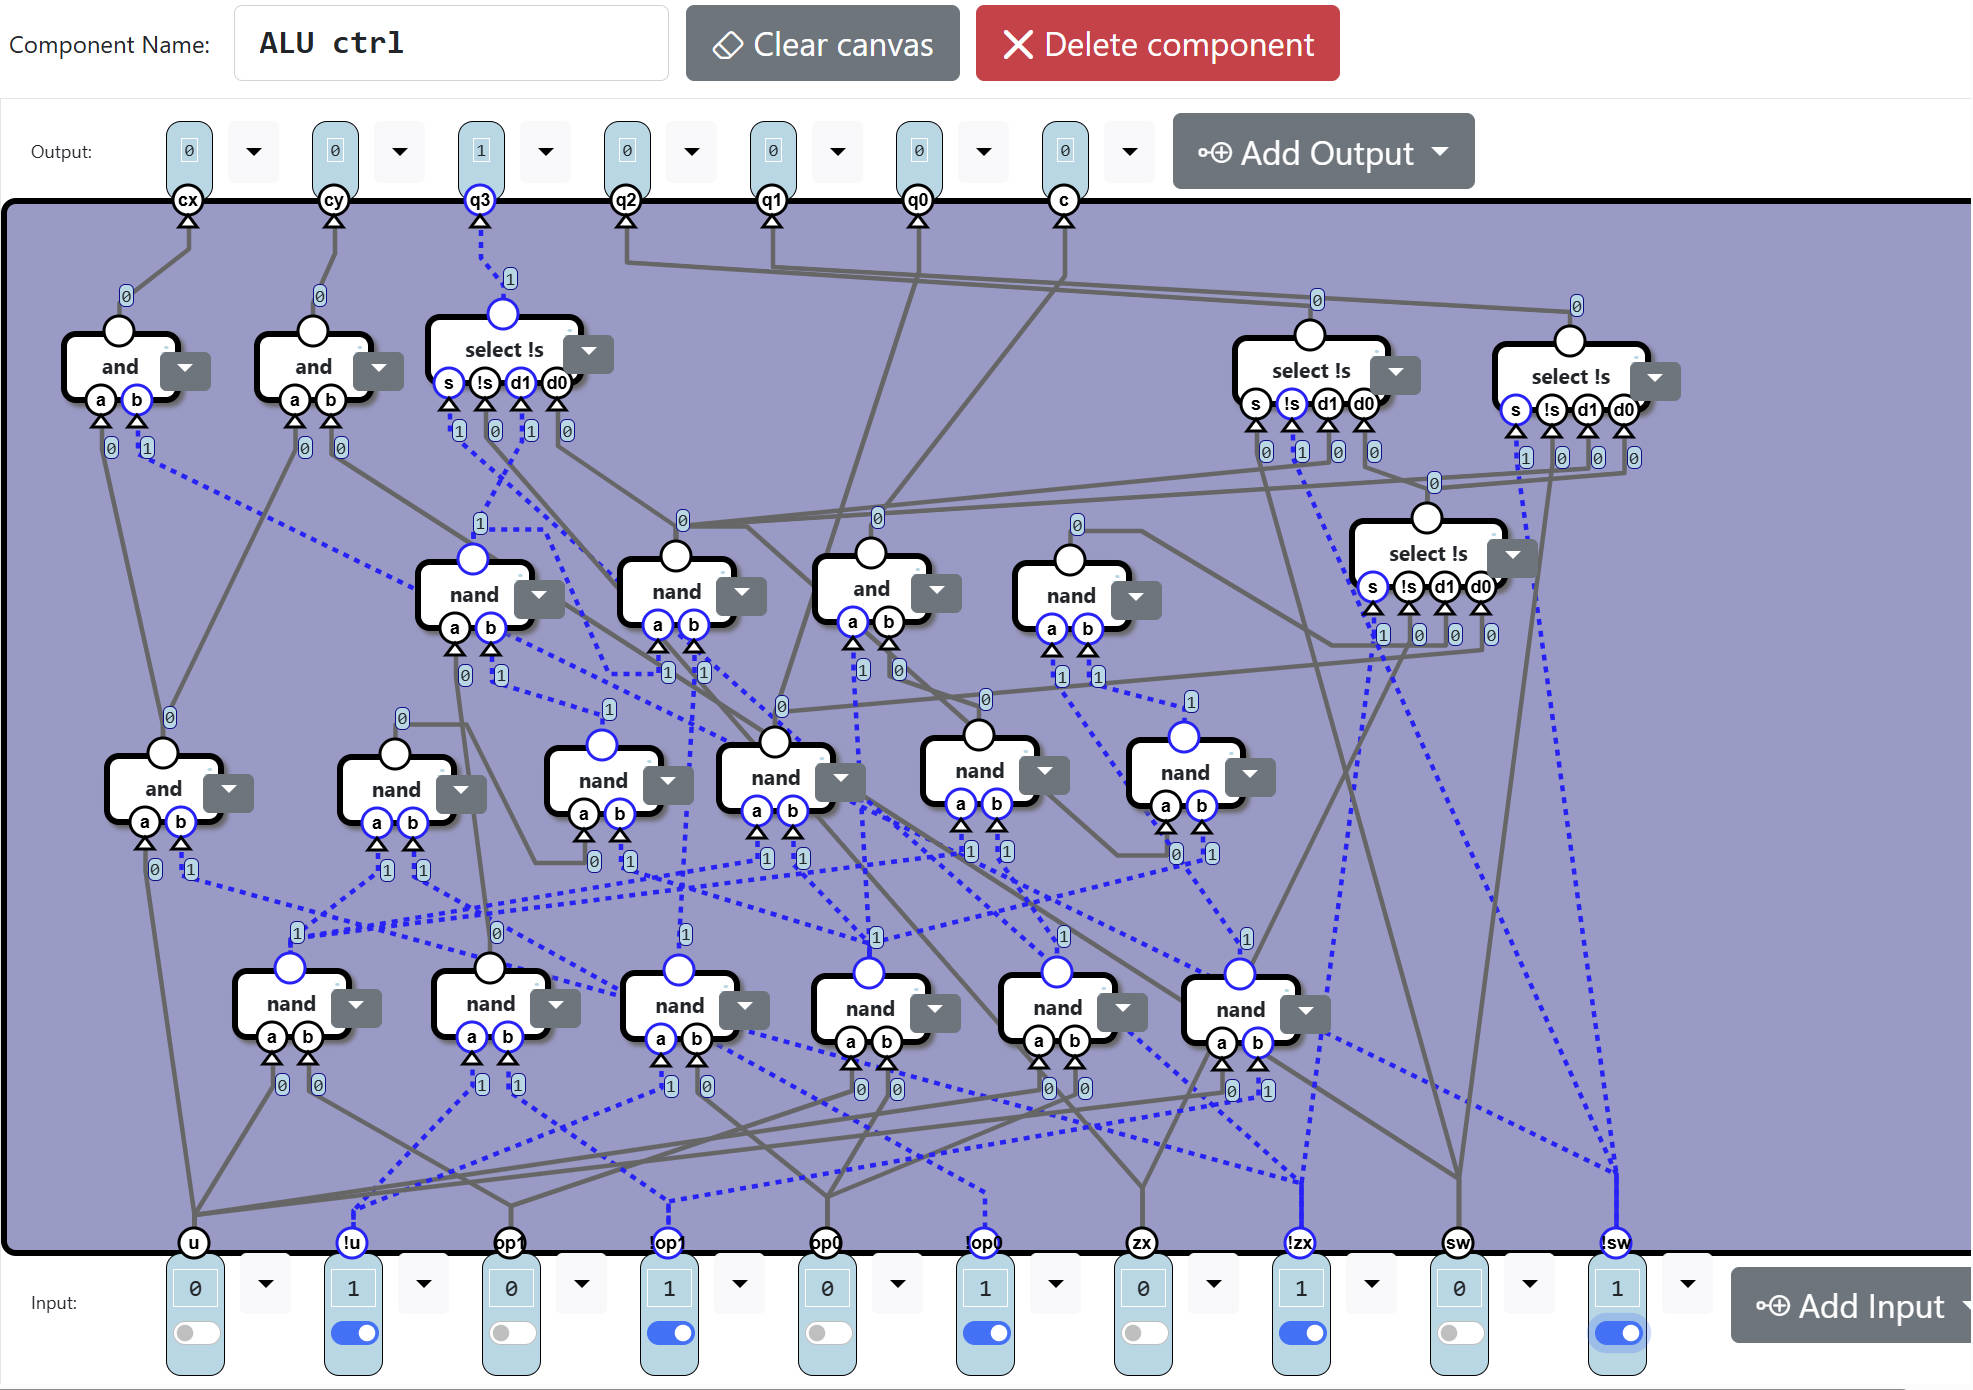
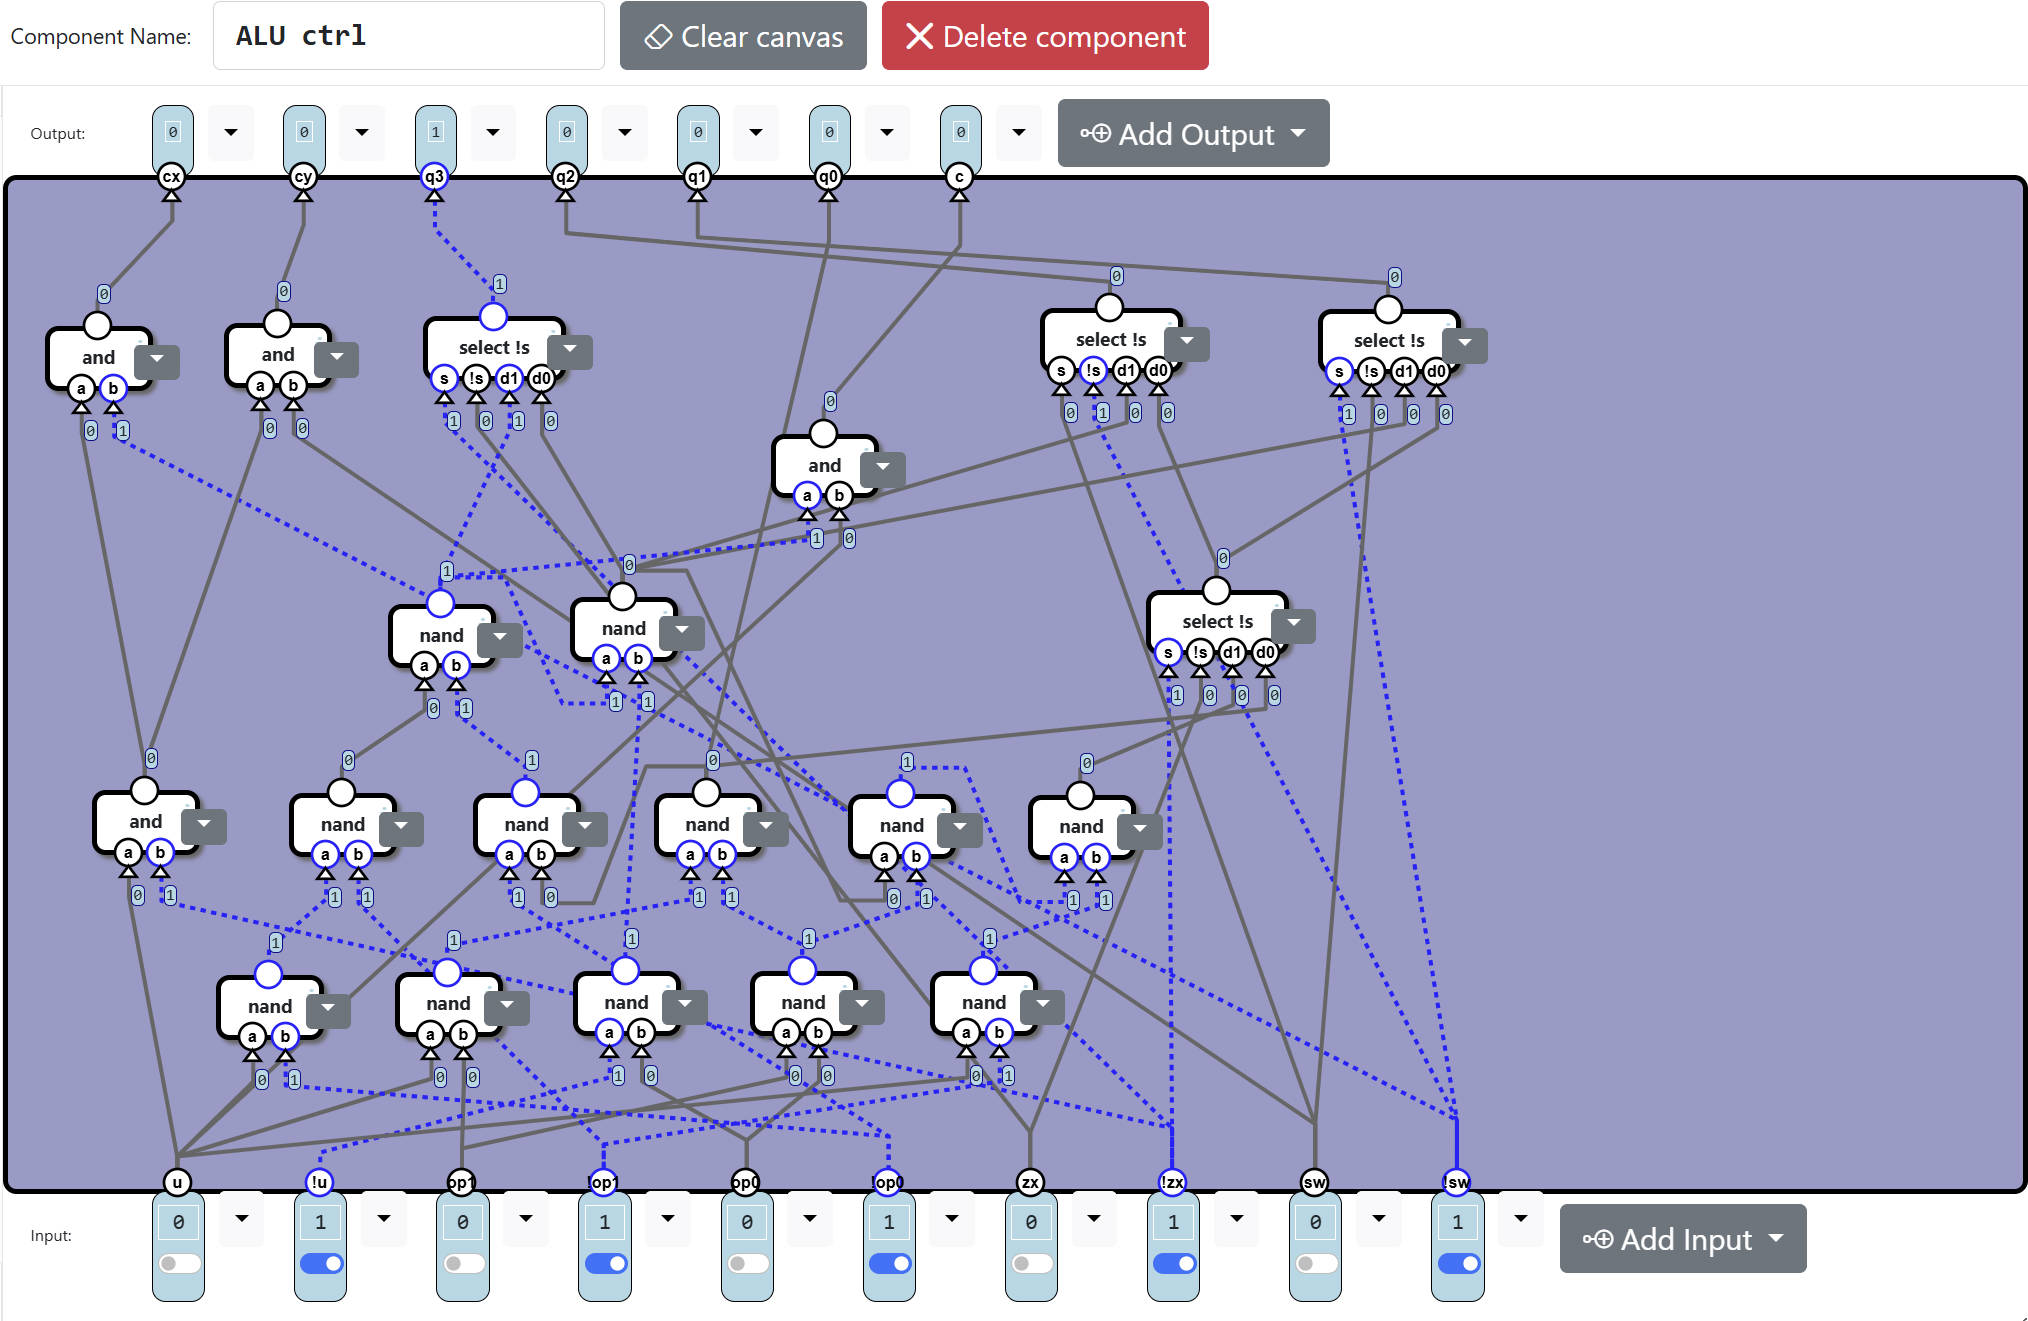
update ALU & Condition level

diff --git a/hardware_2.md b/hardware_2.md
@@ -136,32 +136,30 @@
 
 | 编号 |   类型    |     输入     | 关于 (u,op1,op0) 真值表 |
 | :--: | :-------: | :----------: | :---------------------: |
-|  1   |   nand    |    u,op1     |        11111100         |
-|  2   |   nand    |   !u,!op1    |        00111111         |
+|  1   |   nand    |    u,!op0    |        11110101         |
+|  2   |   nand    |    u,op1     |        11111100         |
 |  3   |   nand    |    !u,op0    |        10101111         |
 |  4   |   nand    |   op1,op0    |        11101110         |
-|  5   |   nand    |    u,op0     |        11111010         |
-|  6   |   nand    |    u,!op1    |        11110011         |
-|  7   |    and    |    u,!zx     |            -            |
-|  8   |   nand    |    1,!op0    |        01010111         |
-|  9   |   nand    |     4,8      |        10111001         |
-|  10  |   nand    |     1,4      |      **00010011**       |
-|  11  |   nand    |     1,5      |        00000111         |
-|  12  |   nand    |     14,4     |        10010111         |
-|  13  |   nand    |     2,9      |      **11000110**       |
-|  14  |   nand    |     13,3     |      **01111001**       |
-|  15  |    and    |     4,11     |        00000110         |
-|  16  |   nand    |     6,12     |      **01101100**       |
-|  17  | select !s | !zx,zx,16,10 |            -            |
-|  18  |    and    |    7,!sw     |            -            |
-|  19  |    and    |     7,sw     |            -            |
-|  20  | select !s | !zx,zx,13,14 |            -            |
-|  21  | select !s | sw,!sw,14,17 |            -            |
-|  22  | select !s | !sw,sw,14,17 |            -            |
+|  5   |   nand    |    u,!op1    |        11110011         |
+|  6   |    and    |    u,!zx     |            -            |
+|  7   |   nand    |    1,!op1    |        00111011         |
+|  8   |   nand    |    !op0,9    |        11111101         |
+|  9   |   nand    |     2,4      |      **00010011**       |
+|  10  |   nand    |     13,4     |        10010111         |
+|  11  |   nand    |     10,5     |      **01101100**       |
+|  12  |   nand    |     7,8      |      **11000110**       |
+|  13  |   nand    |     12,3     |      **01111001**       |
+|  14  | select !s | !zx,zx,11,9  |            -            |
+|  15  |    and    |     12,u     |        00000110         |
+|  16  |    and    |    6,!sw     |            -            |
+|  17  |    and    |     6,sw     |            -            |
+|  18  | select !s | !zx,zx,12,13 |            -            |
+|  19  | select !s | sw,!sw,13,14 |            -            |
+|  20  | select !s | !sw,sw,13,14 |            -            |
 
-> 注： $13,16,14,10$ 号元件分别表示 $q3',q2',q1',q0'$ 。
+> 注： $12,11,13,9$ 号元件分别表示 $q3',q2',q1',q0'$ 。
 
-输出 $cx,cy,q3,q2,q1,q0,y$ 分别接 $18,19,20,21,22,10,15$ 号元件。
+输出 $cx,cy,q3,q2,q1,q0,c$ 分别接 $16,17,18,19,20,9,15$ 号元件。
 
 <img src="./image/hardware/ALU_4.jpg" style="zoom:50%;">
 
@@ -177,7 +175,33 @@
 
 这样处理一位只需 $20$ 个与非门，由于最高位不关心进位，所以只需 $15$ 个与非门。
 
-合计 $5+34+20\times 15+15=354$ 个与非门。
+合计 $5+32+20\times 15+15=352$ 个与非门。
 
 <img src="./image/hardware/ALU_6.jpg" style="zoom:50%;">
 
+### Condition
+
+#### 任务
+
+给定 $lt,eq,gt$ 和 $16$ 位二进制数 $X$ ，输出如下：
+
+| $lt$ | $eq$ | $gt$ |  $output$   |
+| :--: | :--: | :--: | :---------: |
+|  0   |  0   |  0   |     $0$     |
+|  0   |  0   |  1   | $[X\gt 0]$  |
+|  0   |  1   |  0   |   $[X=0]$   |
+|  0   |  1   |  1   | $[X\ge 0]$  |
+|  1   |  0   |  0   | $[X\lt 0]$  |
+|  1   |  0   |  1   | $[X\neq 0]$ |
+|  1   |  1   |  0   | $[X\le 0]$  |
+|  1   |  1   |  1   |     $1$     |
+
+#### 分析
+
+$X$ 的低 $15$ 位是等效的，用 $\text{or 15}$ 元件将其串联起来，这一步需要 $42$ 个与非门：
+
+<img src="./image/hardware/Condition_1.jpg" style="zoom:50%;">
+
+接下来是一个 $5$ 输入、 $1$ 输出问题，直接写程序爆搜发现最少还要 $8$ 个与非门。合计 $9$ 个元件、 $50$ 个与非门。
+
+<img src="./image/hardware/Condition_2.jpg" style="zoom:50%;">

diff --git a/README.md b/README.md
@@ -1,3 +1,3 @@
 # nandgame
 
-Consistently updating. This repository stores the finest solution of [nandgame](www.nandgame.com) within my own ability.
+Consistently updating. This repository stores the finest solution of [nandgame](https://nandgame.com/) within my own ability.
